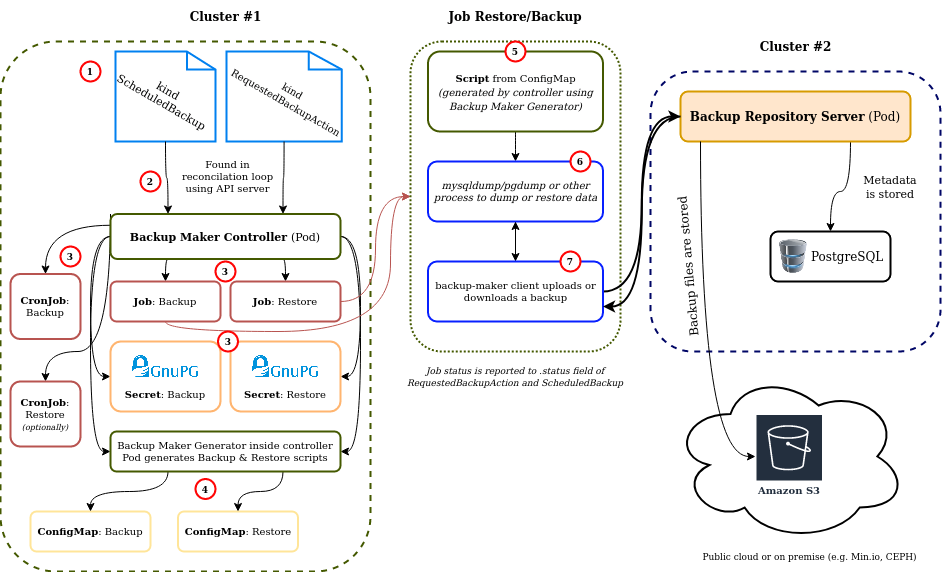
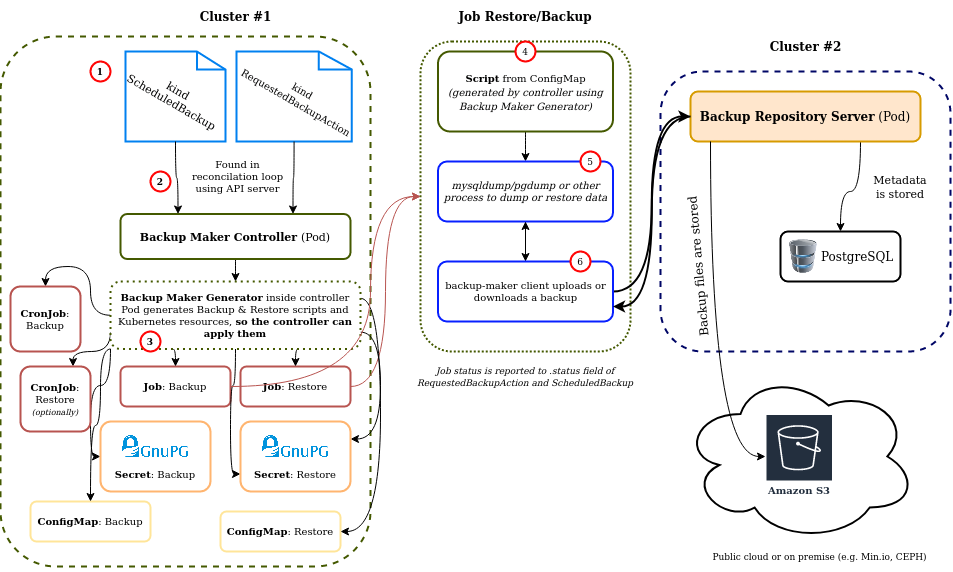
docs: Fix diagram to valid architecture - every Kubernetes resource is templated by Backup Maker Generator

diff --git a/README.md b/README.md
@@ -5,18 +5,35 @@ Backup Repository is a complex system with a set of repositories, for this reaso
 
 We perform there End-To-End tests for selected software configurations.
 
-Example flow
-------------
+Example flow (Kubernetes)
+-------------------------
 
 ![](docs/flow.png)
 
 1. Desired backup & restore definition is submitted by the user in form of `kind: ScheduledBackup`, `kind: RequestedBackupAction`
 2. API server passes definitions to Backup Maker Controller
-3. Backup Maker Controller creates `kind: Job`, `kind: CronJob`, `kind: Secret`
-4. Backup & Restore procedures are templated by [Backup Maker Generator](https://github.com/riotkit-org/br-backup-maker/tree/main/generate) and put into `kind: ConfigMap`
-5. When the `kind: Job` starts the generated script loaded from `kind: ConfigMap` is running inside a `kind: Pod`
-6. **Some tooling (like mysqldump, psql, tar etc.) inside container** is used to dump or restore the data
-7. [backup-maker CLI client](https://github.com/riotkit-org/br-backup-maker) is communicating with server to download or upload the backup
+3. Backup & Restore procedures are templated by [Backup Maker Generator](https://github.com/riotkit-org/br-backup-maker/tree/main/generate), then Backup Maker Controller is applying those Kubernetes resource to the cluster
+4. When the `kind: Job` starts the generated script loaded from `kind: ConfigMap` is running inside a `kind: Pod`
+5. **Some tooling (like mysqldump, psql, tar etc.) inside container** is used to dump or restore the data
+6. [backup-maker CLI client](https://github.com/riotkit-org/br-backup-maker) is communicating with server to download or upload the backup
+
+#### backup-maker-controller role
+
+Orchestration. Backup & Restore definitions written in `kind: ScheduledBackup` and `kind: RequestedBackupAction` are changed into pure Kubernetes resources like `kind: Job`, `kind: Secret`, `kind: ConfigMap`.
+
+#### backup-maker generator role
+
+Backup Maker Generator is generating Backup & Restore scripts and templating Kubernetes resources.
+When you run a `backup-maker generate backup` or `backup-maker generate restore` subcommand a script and Kubernetes resources as plain YAMLs are generated.
+**The same thing is performed by Backup Maker Controller**, when it is receiving your `kind: ScheduledBackup` definition.
+
+#### backup-maker client role
+
+The client is used inside a script, that in Kubernetes is executed inside a Pod.
+
+1. After Backup Maker Controller applies `kind: Job` or `kind: CronJob` the cluster is creating a `kind: Pod`.
+2. The `kind: Pod` fetches a shell script with a backup & restore procedure **(generated previously by the generator)** and executes.
+3. Executed script calls required client tools like pg_dump, mysqldump, tar etc. to prepare the data, **and calls backup-maker client to interact with the server - upload or download**
 
 Versioning
 ----------
